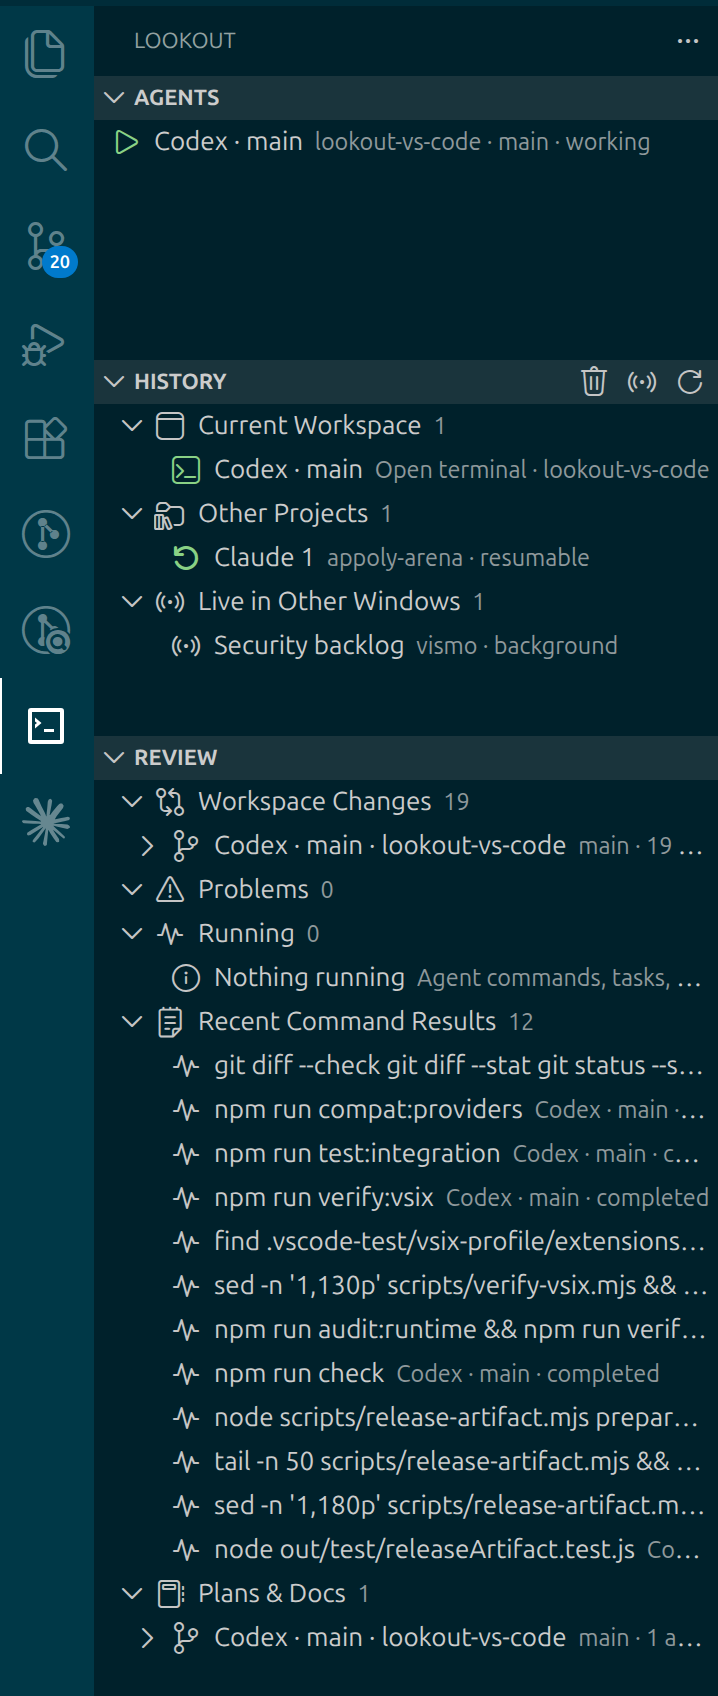
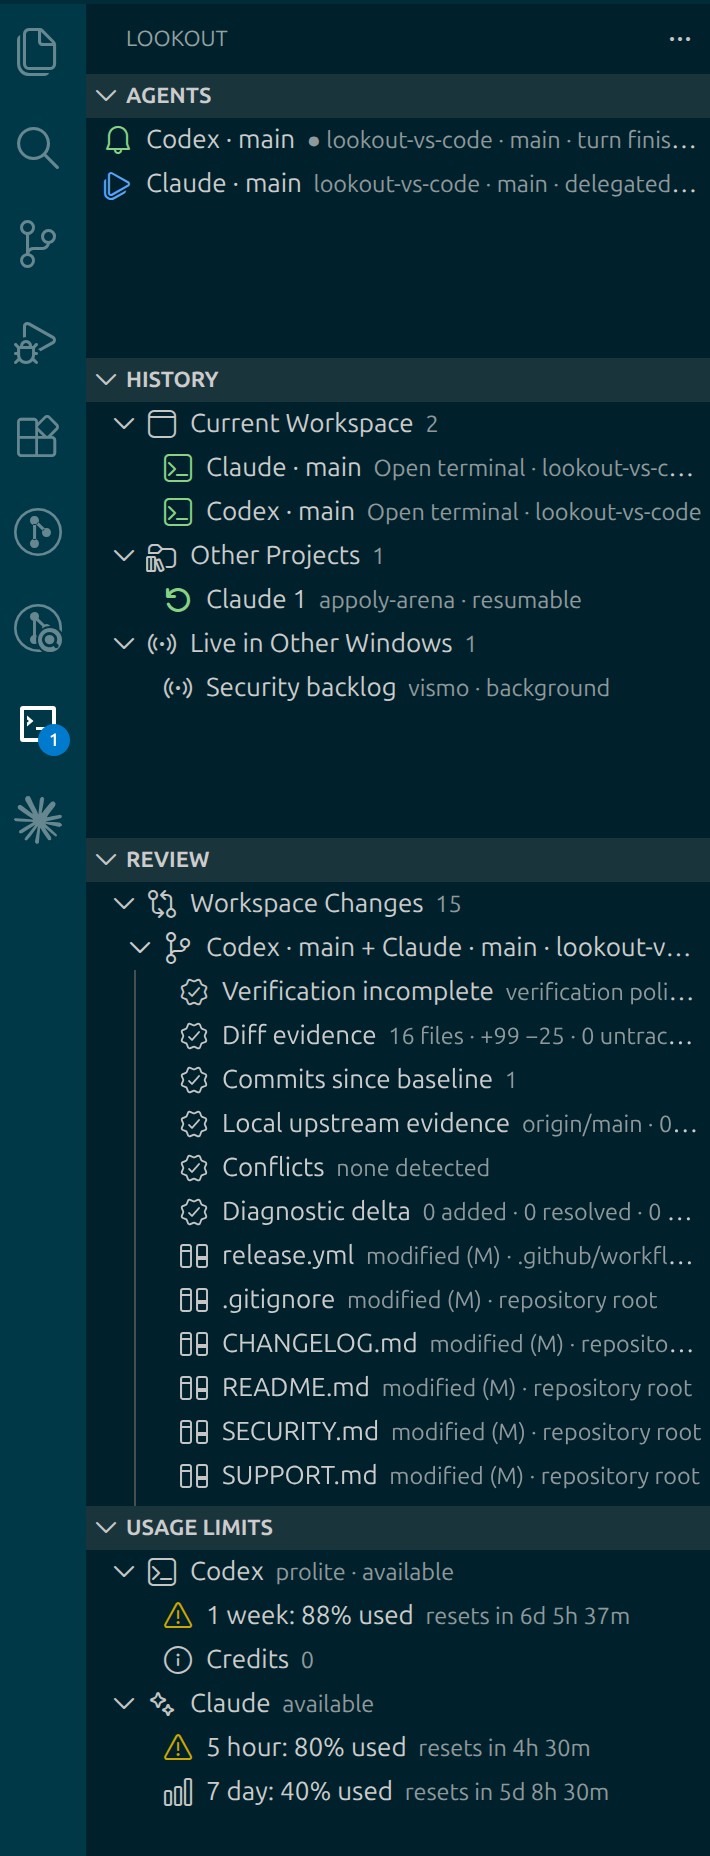
Change adamh references to appoly, add new screenshots

Changed region(s): [[0.0, 0.0, 1.0, 1.0], [0.031, 0.0, 0.093, 0.0938]]

diff --git a/test/agentCommand.test.ts b/test/agentCommand.test.ts
@@ -113,7 +113,7 @@ test('skips Codex hook injection when the launch shell is unknown', () => {
   assert.equal(
     withCodexLifecycleIntegration(
       'codex',
-      'C:\\Users\\Adam Hulme\\ext\\notify.js',
+      'C:\\Users\\Appoly User\\ext\\notify.js',
       'unknown',
       'win32'
     ),
@@ -125,7 +125,7 @@ test('skips Codex hook injection when the launch shell is unknown', () => {
 // trip through the shell that parses the typed command line and the
 // CommandLineToArgvW pass in the launched codex.exe.
 
-const WINDOWS_HELPER = 'C:\\Users\\Adam Hulme\\.vscode\\ext\\notify.js';
+const WINDOWS_HELPER = 'C:\\Users\\Appoly User\\.vscode\\ext\\notify.js';
 
 function windowsCommand(shell: 'powershell' | 'windows-powershell' | 'cmd'): string {
   const command = withCodexLifecycleIntegration(
@@ -226,7 +226,7 @@ test('windows-powershell injection rides the verbatim --% stop-parsing token', (
   assert.ok(stop);
   assert.match(
     stop,
-    /command = "node \\"C:\\\\Users\\\\Adam Hulme\\\\\.vscode\\\\ext\\\\notify\.js\\" --hook codex turn-end \\"Codex finished\\""/
+    /command = "node \\"C:\\\\Users\\\\Appoly User\\\\\.vscode\\\\ext\\\\notify\.js\\" --hook codex turn-end \\"Codex finished\\""/
   );
 });
 

diff --git a/README.md b/README.md
@@ -36,7 +36,7 @@ The Lookout sidebar keeps active agents, cross-project history, live sessions
 from other windows, review evidence, and plans in one place.
 
 <p align="center">
-  <img src="assets/screenshots/lookout-overview.png" width="520" alt="Lookout sidebar showing an active Codex agent, local and cross-project history, another live window, workspace changes, recent verification commands, and plans" />
+  <img src="assets/screenshots/lookout-overview.png" width="520" alt="Lookout sidebar showing Codex and Claude agents, a finished-turn attention state, local and cross-project history, another live window, review evidence, workspace changes, and provider usage limits" />
 </p>
 
 ## What Lookout adds
@@ -167,9 +167,10 @@ provider windows:
 
 ![Lookout Usage Limits view showing Codex and Claude quota windows and reset times](assets/screenshots/usage-limits.png)
 
-The same limits can remain visible as a compact status-bar summary:
+The same limits can remain visible as a compact status-bar summary while a
+Lookout notification routes you back to an agent that has finished:
 
-![Lookout status bar showing compact Codex and Claude usage percentages](assets/screenshots/usage-status.png)
+![Lookout notification for a finished Claude agent with a Focus Agent action and a status-bar pill showing compact Codex and Claude usage percentages](assets/screenshots/usage-status.png)
 
 ## Privacy and security
 
@@ -226,9 +227,8 @@ stores and [SECURITY.md](SECURITY.md) for private vulnerability reporting.
 ## Optional Compound Engineering compatibility
 
 Lookout recognizes common plan, research, solution, todo, and changelog paths.
-For a fuller artifact convention, it is compatible with
-[The Workshop](https://github.com/adamhulme/the-workshop), a separately released
-skill pack. Lookout does not bundle, install, or update it.
+For a fuller artifact convention, it is compatible with The Workshop, a
+separately released skill pack. Lookout does not bundle, install, or update it.
 
 ## Development
 

diff --git a/docs/RELEASE.md b/docs/RELEASE.md
@@ -18,10 +18,11 @@ Implementation sequencing and the expanded acceptance criteria live in the
 - Create and verify the Appoly Open VSX namespace `appoly`. Confirm the Appoly
   accounts that own both registries are organization-controlled and have at
   least two administrators with recovery access.
-- Confirm the current overview and usage images under `assets/screenshots/`
-  still match the release candidate. Add an attention-state screenshot and a
-  native Review diff before publication; prefer a short launch → attention →
-  review recording as an additional asset.
+- Confirm the current overview, notification/status, and usage images under
+  `assets/screenshots/` still match the release candidate. The overview and
+  notification include attention states; add a native Review diff before
+  publication. Prefer a short launch → attention → review recording as an
+  additional asset.
 
 ## 2. Automated gates
 